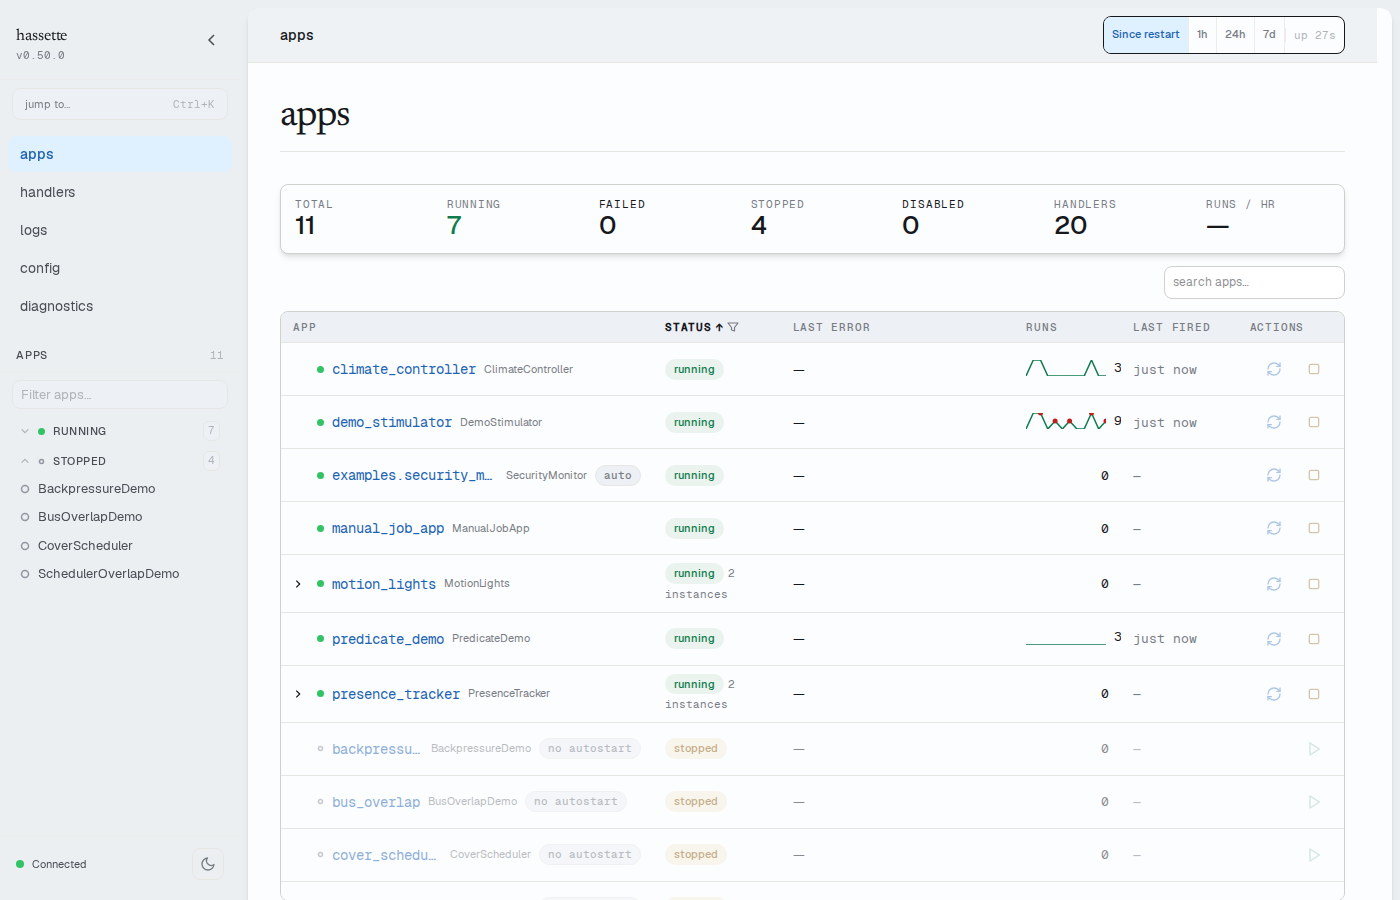
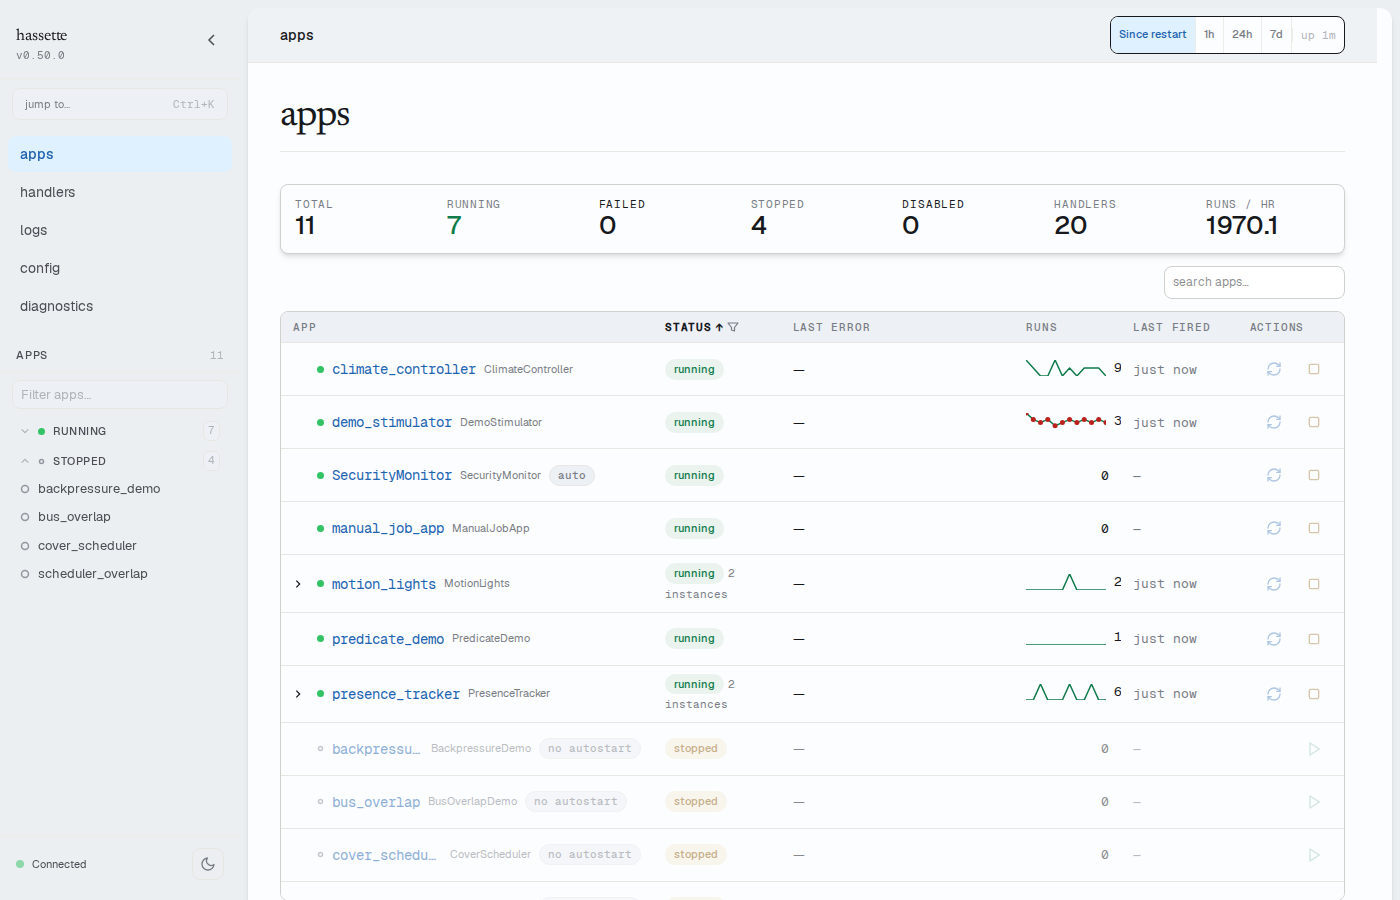
fix: show display_name instead of app_key in apps table (#1504)
### Fix

- **Backend:** `display_name` now defaults to `app_key` for configured
apps and `class_name` for auto-loaded apps. Previously it always
defaulted to `class_name`, so configured apps showed `MotionLights`
instead of `motion_lights` when `display_name` was used. Auto-loaded
apps still show the bare class name (e.g. `SecurityMonitor`) instead of
the full dotted module path.
- **Frontend:** The apps table passes `app.display_name` as children to
`AppLink`, matching the sidebar pattern. With the backend fix,
configured apps show their short `app_key` and auto-loaded apps show
their class name.
- **Screenshot tooling:** `capture_screenshots.py` now auto-detects
headless environments (no X display) and wraps shot-scraper in
`xvfb-run`. Also adds a `--timeout` flag for the Playwright page
timeout.

### Screenshots

![apps
page](https://raw.githubusercontent.com/NodeJSmith/hassette/1008/docs/_static/web_ui_apps.png)

Note the `SecurityMonitor` row (auto-loaded) shows the class name
instead of `examples.security_monitor.SecurityMonitor`, while configured
apps like `climate_controller` and `motion_lights` keep their short app
keys.

Closes #1008

diff --git a/frontend/src/pages/apps-table-row.test.tsx b/frontend/src/pages/apps-table-row.test.tsx
@@ -68,11 +68,14 @@ describe("AppTableRow", () => {
     expect(getByTestId("app-row-motion_lights")).toBeDefined();
   });
 
-  it("shows app name as a link", () => {
-    const { getByRole } = renderRow({ app: createAppRow({ app_key: "my_app" }) });
-    const link = getByRole("link", { name: /my_app/i });
+  it("shows display_name as the link text", () => {
+    const { getByRole } = renderRow({
+      app: createAppRow({ app_key: "examples.security_monitor.SecurityMonitor", display_name: "SecurityMonitor" }),
+    });
+    const link = getByRole("link", { name: "SecurityMonitor" });
     expect(link).toBeDefined();
-    expect((link as HTMLAnchorElement).href).toContain("/apps/my_app");
+    expect(link.textContent).toBe("SecurityMonitor");
+    expect((link as HTMLAnchorElement).href).toContain("/apps/examples.security_monitor.SecurityMonitor");
   });
 
   it("shows class_name", () => {

diff --git a/frontend/src/utils/app-data.ts b/frontend/src/utils/app-data.ts
@@ -100,7 +100,7 @@ export function compareAppRows(
   const bStatus = appLiveStatus(appStatuses, b);
   switch (sort.key) {
     case "name":
-      return dir * a.app_key.localeCompare(b.app_key);
+      return dir * a.display_name.localeCompare(b.display_name) || a.app_key.localeCompare(b.app_key);
     case "status": {
       const statusDiff = statusPriority(aStatus) - statusPriority(bStatus);
       if (statusDiff !== 0) return dir * statusDiff;

diff --git a/frontend/src/pages/apps-table-row.tsx b/frontend/src/pages/apps-table-row.tsx
@@ -69,7 +69,7 @@ export function AppTableRow({
               )}
             </span>
             <StatusShape kind={kind} size={7} muted={muteStatus} />
-            <AppLink appKey={app.app_key} />
+            <AppLink appKey={app.app_key}>{app.display_name}</AppLink>
             <span className={cn("text-xs text-muted-foreground max-sidebar:hidden", compact && "hidden")}>
               {app.class_name}
             </span>

diff --git a/scripts/capture_screenshots.py b/scripts/capture_screenshots.py
@@ -31,6 +31,7 @@ Adding a new screenshot:
 import argparse
 import contextlib
 import json
+import shutil
 import subprocess
 import sys
 import tempfile
@@ -114,6 +115,22 @@ def _wait_for_error_data(hassette_port: int) -> None:
         )
 
 
+def _needs_xvfb() -> bool:
+    """Check if xvfb-run is needed (no working X display) and available."""
+    if shutil.which("xvfb-run") is None:
+        return False
+    try:
+        subprocess.run(
+            ["xdpyinfo"],
+            stdout=subprocess.DEVNULL,
+            stderr=subprocess.DEVNULL,
+            timeout=5,
+        )
+        return False
+    except (FileNotFoundError, subprocess.TimeoutExpired, subprocess.CalledProcessError):
+        return True
+
+
 def _resolve_manifest(entries: list[object], port: str) -> list[dict[str, object]]:
     """Replace {port} placeholders and prepend the animation-disabling JS."""
     resolved: list[dict[str, object]] = []
@@ -142,6 +159,13 @@ def main() -> None:
         "--only",
         help="Comma-separated substrings to match against output filenames. "
         "Only matching entries are captured. Example: --only column_picker,sidebar",
+    )
+    parser.add_argument(
+        "--timeout",
+        type=int,
+        default=30000,
+        help="Playwright page timeout in milliseconds (default: 30000). "
+        "Increase if Page.screenshot times out waiting for fonts or rendering.",
     )
     args = parser.parse_args()
 
@@ -183,8 +207,13 @@ def main() -> None:
         try:
             print(f"\nRunning shot-scraper ({len(resolved)} screenshots)...", flush=True)
             try:
+                shot_cmd = ["uv", "run", "shot-scraper", "multi", tmp_manifest_path]
+                if args.timeout != 30000:
+                    shot_cmd.extend(["--timeout", str(args.timeout)])
+                if _needs_xvfb():
+                    shot_cmd = ["xvfb-run", "--auto-servernum", "--server-args=-screen 0 1920x1080x24", *shot_cmd]
                 shot_result = subprocess.run(
-                    ["uv", "run", "shot-scraper", "multi", tmp_manifest_path],
+                    shot_cmd,
                     cwd=str(repo_root),
                     timeout=SCREENSHOT_CAPTURE_TIMEOUT_SECONDS,
                 )

diff --git a/tests/unit/test_config_classes.py b/tests/unit/test_config_classes.py
@@ -167,6 +167,31 @@ class TestAppManifestAutostart:
         assert result["autostart"] is True
 
 
+class TestAppManifestDisplayName:
+    """Tests for AppManifest.display_name auto-computation."""
+
+    def test_configured_app_defaults_display_name_to_app_key(self) -> None:
+        manifest = make_manifest(display_name=None)
+        assert manifest.display_name == "test_app"
+
+    def test_auto_loaded_app_defaults_display_name_to_class_name(self) -> None:
+        manifest = make_manifest(
+            app_key="examples.security_monitor.SecurityMonitor",
+            class_name="SecurityMonitor",
+            auto_loaded=True,
+            display_name=None,
+        )
+        assert manifest.display_name == "SecurityMonitor"
+
+    def test_explicit_display_name_preserved(self) -> None:
+        manifest = make_manifest(display_name="Custom Name")
+        assert manifest.display_name == "Custom Name"
+
+    def test_explicit_display_name_preserved_for_auto_loaded(self) -> None:
+        manifest = make_manifest(display_name="Custom Name", auto_loaded=True)
+        assert manifest.display_name == "Custom Name"
+
+
 class TestAppManifestCacheKey:
     """Tests for AppManifest.cache_key field and its framework-prefix validation."""
 

diff --git a/tests/e2e/test_apps_list.py b/tests/e2e/test_apps_list.py
@@ -22,10 +22,10 @@ def test_apps_list_renders_all_apps(page: Page, base_url: str) -> None:
     """All configured apps should be visible on the apps list page."""
     page.goto(base_url + "/apps")
     body = page.locator("body")
-    expect(body).to_contain_text("my_app")
-    expect(body).to_contain_text("other_app")
-    expect(body).to_contain_text("broken_app")
-    expect(body).to_contain_text("disabled_app")
+    expect(body).to_contain_text("My App")
+    expect(body).to_contain_text("Other App")
+    expect(body).to_contain_text("Broken App")
+    expect(body).to_contain_text("Disabled App")
 
 
 def test_apps_list_status_filter_pills(page: Page, base_url: str) -> None:

diff --git a/src/hassette/config/classes.py b/src/hassette/config/classes.py
@@ -165,7 +165,8 @@ class AppManifest(ExcludeExtrasMixin, BaseModel):
 
         values["app_dir"] = app_dir = Path(values["app_dir"]).resolve()
 
-        values["display_name"] = values.get("display_name") or values.get("class_name")
+        if not values.get("display_name"):
+            values["display_name"] = values.get("class_name") if values.get("auto_loaded") else values.get("app_key")
 
         if app_dir.is_file():
             LOGGER.warning("App directory %s is a file, using the parent directory as app_dir", app_dir)

diff --git a/tests/unit/test_app_manifest.py b/tests/unit/test_app_manifest.py
@@ -60,7 +60,7 @@ class TestAppManifest:
         try:
             assert app_a.app_manifest is manifest_a
             assert app_b.app_manifest is manifest_b
-            assert app_a.app_manifest.display_name == "MyAppA"
-            assert app_b.app_manifest.display_name == "MyAppB"
+            assert app_a.app_manifest.display_name == "my_app_a"
+            assert app_b.app_manifest.display_name == "my_app_b"
         finally:
             del App.app_manifest
